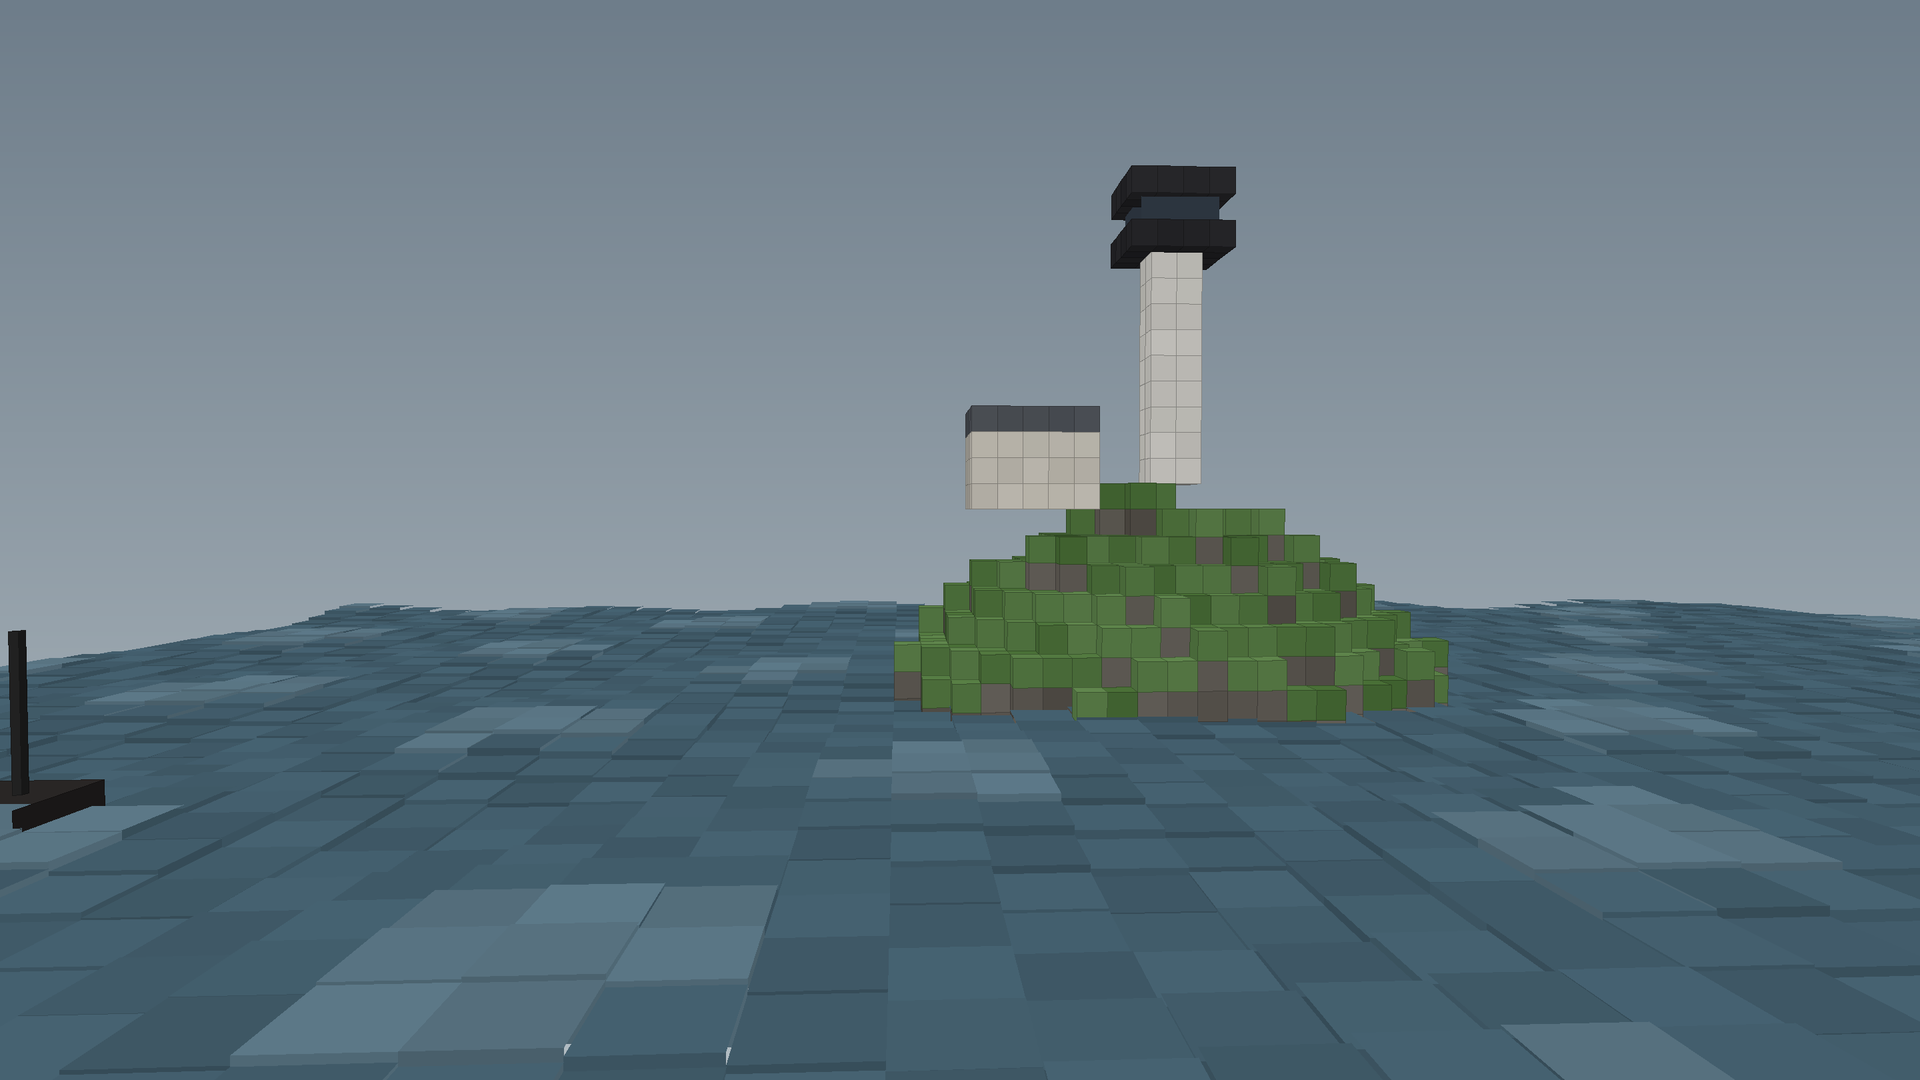
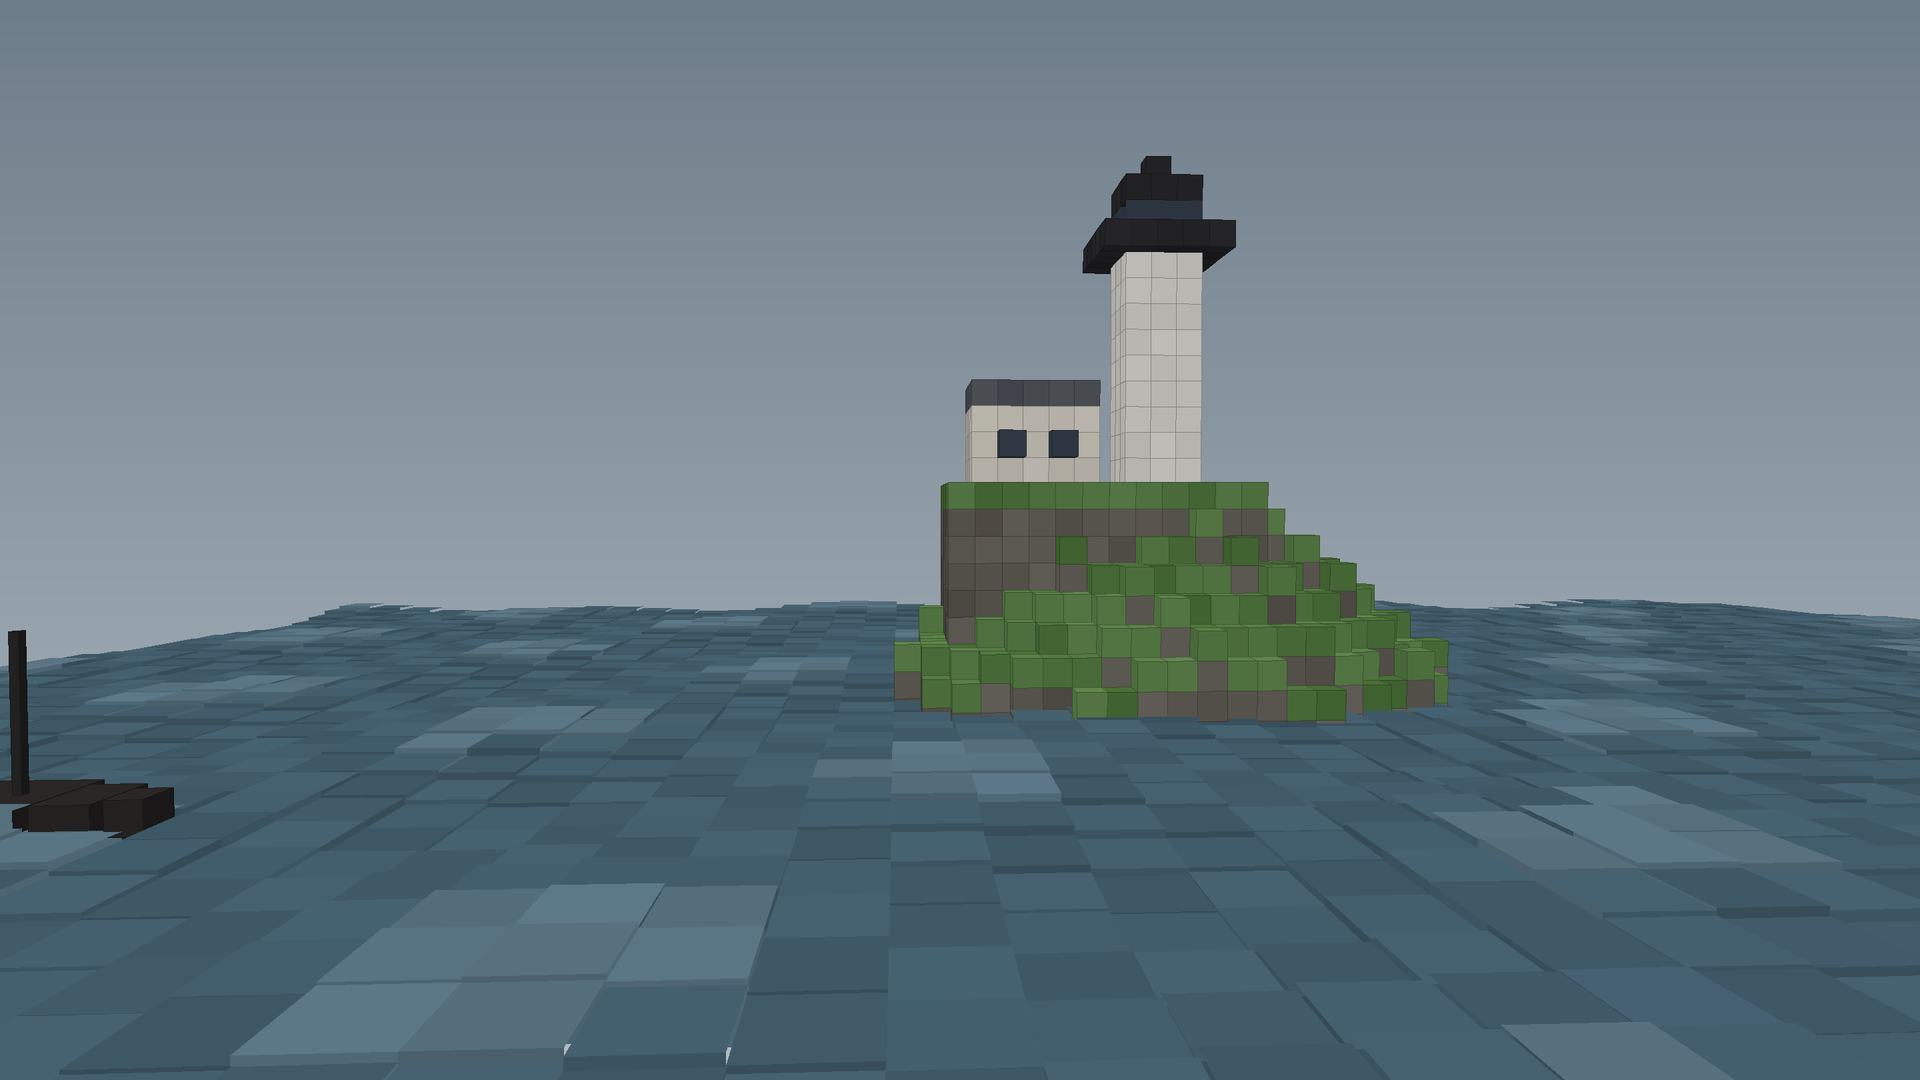
입체 블록 장면 검수·수정: 섬 꼭대기 평평(건물 붙음)·등대 3×3·배 뱃머리·조명탄 높이, 계단 언덕·가는 난간, 외투 모양, 하람 모자 밖 머리·귀 덮개, 두캣 옆 수염, 국자·빵 소품, 빈 침대 / CLAUDE.md 확대 검수 규칙
Claude-Session: https://claude.ai/code/session_01HCMiusSqCGhLJD35gTQhF1

Changed region(s): [[0.4688, 0.1833, 0.6875, 0.5806], [0.0312, 0.7028, 0.0938, 0.7944], [0.5938, 0.1222, 0.6562, 0.2139]]

diff --git a/블록장면3D.py b/블록장면3D.py
@@ -59,22 +59,29 @@ def island_vox(present=False):
             if d > 1.05:
                 continue
             h = int(1 + 7 * max(0.0, 1 - d) ** 0.6 + (1 if (x * 7 + z * 3) % 5 == 0 else 0))
+            if cx - 8 <= x <= cx + 3 and cz - 4 <= z <= cz + 2:   # 건물이 서는 꼭대기는 평평하게 (떠 보이지 않게)
+                h = 8
             for y in range(-1, h):
                 vx.put(x, y, z, "#6f6a62" if y < h - 1 else "#5f8a4a", j=14)
     top = 8
-    for y in range(top, top + 9):                                 # 등대 탑 (흰 블록 2×2)
-        for x in (cx, cx + 1):
-            for z in (cz - 1, cz):
+    for y in range(top, top + 9):                                 # 등대 탑 (흰 블록 3×3)
+        for x in (cx - 1, cx, cx + 1):
+            for z in (cz - 2, cz - 1, cz):
                 vx.put(x, y, z, "#f1efe8", j=6)
-    for x in range(cx - 1, cx + 3):
-        for z in range(cz - 2, cz + 2):
-            vx.put(x, top + 9, z, "#2f2f33", j=4)                 # 꼭대기 받침
+    for x in range(cx - 2, cx + 3):
+        for z in range(cz - 3, cz + 2):
+            vx.put(x, top + 9, z, "#2f2f33", j=4)                 # 꼭대기 받침(난간)
+    for x in range(cx - 1, cx + 2):
+        for z in range(cz - 2, cz + 1):
             vx.put(x, top + 11, z, "#2f2f33", j=4)                # 지붕
-    for x in range(cx - 7, cx - 2):                               # 숙소
+    vx.put(cx, top + 12, cz - 1, "#2f2f33", j=4)
+    for x in range(cx - 7, cx - 2):                               # 숙소 (땅에 붙음)
         for z in range(cz - 3, cz + 1):
-            for y in range(top - 1, top + 2):
+            for y in range(top, top + 3):
                 vx.put(x, y, z, "#e9e4d8", j=8)
-            vx.put(x, top + 2, z, "#5a5f66", j=6)
+            vx.put(x, top + 3, z, "#5a5f66", j=6)
+    for x in (cx - 6, cx - 4):                                    # 숙소 창문
+        vx.put(x, top + 1, cz + 1, "#3a4552", j=4)
     return vx.boxes()
 
 
@@ -84,7 +91,7 @@ def set_island(t, p, o):
     cx, cz, top = 8, -14, 8
     lamp = o.get("lamp", "on")
     on = lamp != "off"
-    b.append(Box((cx - 0.5, top + 10, cz - 1.5), (3, 1, 3), "#fff1a8" if on else "#3a4552", emit=on, edge=False))
+    b.append(Box((cx - 1, top + 10, cz - 2), (3, 1, 3), "#fff1a8" if on else "#3a4552", emit=on, edge=False))   # 등불 방 유리
     if lamp == "beam" or (on and mood in ("night", "dusk", "storm")):
         a = t * 40
         piv = np.array([cx + 1, top + 10.5, cz])
@@ -95,36 +102,54 @@ def set_island(t, p, o):
         q = 0.5 - 0.5 * math.cos(math.pi * q)
         sx = s0 + (s1 - s0) * q
         bob = 0.15 * math.sin(t * 1.6)
-        b += [Box((sx, -0.6 + bob, 4), (7, 1.4, 2.6), "#2e2b2a"), Box((sx + 1.5, 0.8 + bob, 4.4), (3.5, 1.4, 1.8), "#d9d2c3"),
+        b += [Box((sx, -0.6 + bob, 4), (7, 1.4, 2.6), "#2e2b2a"), Box((sx + 7, -0.3 + bob, 4.4), (1.2, 1.1, 1.8), "#2e2b2a"), Box((sx + 8.2, 0.0 + bob, 4.8), (0.8, 0.8, 1.0), "#2e2b2a"),
+              Box((sx + 1.5, 0.8 + bob, 4.4), (3.5, 1.4, 1.8), "#d9d2c3"), Box((sx + 2.0, 1.5 + bob, 6.21), (2.5, 0.4, 0.02), "#3a4552", edge=False),
               Box((sx + 2.6, 2.2 + bob, 4.9), (0.9, 2.2, 0.9), "#a83232"), Box((sx + 6, 0.8 + bob, 5.1), (0.2, 3.5, 0.2), "#2b2b2b")]
         if o.get("flare") and p > 0.55:
             ph = min(1.0, (p - 0.55) / 0.35)
-            fy = 1 + 16 * math.sin(ph * math.pi / 2)
+            fy = 1 + 11 * math.sin(ph * math.pi / 2)
             for k in range(6):   # 연기 꼬리
                 b.append(Box((sx + 3 + ph * 2 - k * 0.08, fy - k * 1.2 * ph, 5.0), (0.25, 0.25, 0.25), (255, 200, 170), emit=True, edge=False))
             b.append(Box((sx + 2.6 + ph * 2, fy, 4.8), (0.9 + ph, 0.9 + ph, 0.9 + ph), (255, 90, 60), emit=True, edge=False))
     return b, mood
 
 
+def stair_h(x):
+    """돌계단 언덕 높이: 2칸마다 한 계단씩 (x 1 → 1층, x 22 → 11층)"""
+    return max(1, min(12, 1 + (x - 1) // 2)) if x >= 1 else 0   # 23 이후는 꼭대기 평지
+
+
 def set_stairs(t, p, o):
     mood = o.get("mood", "grey")
     def build():
         vx = Voxels()
-        for x in range(-6, 30):
-            for z in range(-12, 4):
-                h = int(max(0, (x + 4) * 0.45))
-                for y in range(-1, min(h, 12)):
-                    vx.put(x, y, z, "#6f6a62" if y < h - 1 else "#5f8a4a", j=12)
-        for k in range(10):   # 돌계단 (왼쪽 아래 → 오른쪽 위)
-            for z in (1, 2):
-                vx.put(20 - k * 2, 9 - k + 0, z, "#9a9c9e", j=8)
-                vx.put(19 - k * 2, 9 - k + 0, z, "#9a9c9e", j=8)
+        for x in range(-6, 44):
+            for z in range(-16, 4):
+                h = stair_h(x)
+                path = 0 <= z <= 2 and 1 <= x <= 22
+                for y in range(-1, h):
+                    top_ = y == h - 1
+                    vx.put(x, y, z, ("#a3a5a7" if path else "#5f8a4a") if top_ else ("#8e9092" if path else "#6f6a62"), j=10)
+        for y in range(stair_h(24), stair_h(24) + 7):   # 언덕 위 등대
+            for x in (24, 25):
+                for z in (-3, -2):
+                    vx.put(x, y, z, "#f1efe8", j=6)
+        for x in (23, 24, 25, 26):
+            for z in (-4, -3, -2, -1):
+                vx.put(x, stair_h(24) + 7, z, "#2f2f33", j=4)
         return vx.boxes()
-    return sea_tiles(t, mood, -40, 10, -10, 40) + _static("stairs", build), mood
+    posts = []
+    for x in range(2, 23, 3):   # 돌길 옆 가는 쇠 난간 (기둥 + 가로대)
+        posts.append(Box((x + 0.4, stair_h(x), 3.1), (0.15, 1.3, 0.15), "#3b3b3b", edge=False))
+        posts.append(Box((x + 0.4, stair_h(x) + 1.15, 3.1), (3.36, 0.1, 0.1), "#3b3b3b", [(np.array([x + 0.4, stair_h(x) + 1.2, 3.15]), "z", 26.5)], edge=False))
+    return sea_tiles(t, mood, -40, 10, -10, 40) + _static("stairs", build) + posts, mood
 
 
 def set_kitchen(t, p, o):
     b = E.kitchen(t if not o.get("stopped") else 0.0)
+    if o.get("bed"):    # 빈 침대 (오른쪽 벽 앞)
+        b += [Box((6.2, 0, 0.6), (3.0, 1.0, 4.6), "#7a5232"), Box((6.3, 1.0, 0.7), (2.8, 0.4, 4.4), "#e9e1cf"),
+              Box((6.5, 1.4, 0.8), (2.4, 0.3, 1.0), "#f4f1ea"), Box((6.1, 0, 0.3), (3.2, 2.4, 0.3), "#6b4a30")]
     if o.get("cold"):   # 꺼진 난로: 불꽃·김을 뺌 (emit 상자 중 주황·흰 것)
         b = [x for x in b if not (x.emit and (x.col[0] > 200 and x.col[2] < 120 or x.col.min() > 230))]
     if o.get("stopped"):
@@ -145,8 +170,15 @@ def set_hook(t, p, o):
     if o.get("coat", True):
         sway = 3 * math.sin(t * 1.3)
         piv = np.array([5.95, 6.6, 0.4])
-        b += [Box((4.7, 1.6, 0.3), (2.5, 5.0, 0.7), "#2e3b4f", [(piv, "z", sway)]), Box((5.3, 5.6, 0.95), (1.3, 1.0, 0.1), "#26303f", [(piv, "z", sway)]),
-              Box((4.4, 3.8, 0.35), (0.5, 2.8, 0.6), "#26303f", [(piv, "z", sway)]), Box((7.0, 3.8, 0.35), (0.5, 2.8, 0.6), "#26303f", [(piv, "z", sway)])]
+        R_ = [(piv, "z", sway)]
+        b += [Box((4.75, 1.4, 0.3), (2.4, 4.6, 0.6), "#2e3b4f", R_),                       # 몸판
+              Box((4.4, 5.3, 0.3), (3.1, 0.8, 0.6), "#2e3b4f", R_),                         # 어깨
+              Box((4.1, 2.6, 0.32), (0.55, 3.2, 0.55), "#283447", R_), Box((7.35, 2.6, 0.32), (0.55, 3.2, 0.55), "#283447", R_),   # 늘어진 소매
+              Box((5.35, 5.5, 0.92), (0.6, 0.7, 0.06), "#1e2836", R_), Box((6.05, 5.5, 0.92), (0.6, 0.7, 0.06), "#1e2836", R_),   # 깃
+              Box((5.93, 1.5, 0.91), (0.06, 4.0, 0.03), "#1a2230", R_, edge=False)]                                           # 여밈선
+        for k in range(4):
+            b.append(Box((6.15, 4.6 - k * 0.9, 0.92), (0.16, 0.16, 0.05), "#c9b25a", R_, edge=False))                          # 단추
+        b.append(Box((5.85, 6.0, 0.4), (0.3, 0.5, 0.3), "#2e3b4f", R_))                                                        # 걸이 고리
     return b, "indoor"
 
 
@@ -194,8 +226,8 @@ def pose3d(acts, t, seed):
         p["talk"] = 0.8 + 0.2 * abs(math.sin(t * 6))
         p["arm"] = 60 + 20 * math.sin(t * 5)
         p["arm2"] = 60 + 20 * math.sin(t * 5 + 1)
-    if "stir" in acts:
-        p["arm"] = 70 + 12 * math.sin(t * 2 * math.pi / 1.4)
+    if "stir" in acts:   # 팔을 냄비 높이로 들고 국자를 휘휘
+        p["arm"] = 108 + 8 * math.sin(t * 2 * math.pi / 1.4)
     if "wave" in acts:
         p["arm_r"] = 150 + 18 * math.sin(t * 2 * math.pi / 0.6)
     if "point" in acts or "reach" in acts:
@@ -235,11 +267,17 @@ def frame(scene, cast, t, dur=None):
             if q >= 1.0:
                 acts = [a for a in acts if a not in ("walk", "run")]
         y = ch.get("y")
-        if y is None:
-            y = rock_height(int(ax), int(az)) if scene.get("set") == "rocks" else 0
+        if y is None or (scene.get("set") == "stairs" and "y_to" in ch):
+            y = rock_height(int(ax), int(az)) if scene.get("set") == "rocks" else (stair_h(int(round(ax))) if scene.get("set") == "stairs" else 0)
+            ch = {k_: v_ for k_, v_ in ch.items() if k_ != "y_to"}
         if ch.get("y_to") is not None:
             y = y + (ch["y_to"] - y) * min(1.0, pr * ch.get("speed", 1.0))
-        boxes += person(c, (ax, y, az), face=face, pose=pose3d(acts, t, i * 1.7 + 0.3), scale=ch.get("scale", 1.0))
+        ps = pose3d(acts, t, i * 1.7 + 0.3)
+        if "stir" in acts:
+            ps["ladle"] = True
+        if ch.get("hold"):
+            ps["hold"] = ch["hold"]
+        boxes += person(c, (ax, y, az), face=face, pose=ps, scale=ch.get("scale", 1.0))
     fx = scene.get("fx", [])
     if "rain" in fx:
         cp = scene["cam"]["pos"]

diff --git a/블록3D.py b/블록3D.py
@@ -222,6 +222,12 @@ def person(c, pos, face=0.0, pose=None, scale=1.0):
         r = [(piv, "x", -(fwd) - swing * sg), (piv, "z", side * sg)]
         B((ax, sy - alen, -aw / 2), (aw, alen, aw), c["top"], r)
         B((ax + 0.01, sy - alen - aw * 0.9, -aw / 2 + 0.01), (aw - 0.02, aw * 0.9, aw - 0.02), c["skin"], r)
+        if sg > 0 and pose.get("ladle"):   # 국자: 손에서 아래로 긴 자루 + 끝의 오목한 머리
+            hp = np.array([x0 + ax + aw / 2, y0 + bob + sy - alen - aw * 0.5, z0])   # 손 자리: 국자를 팔과 직각으로 꺾어 냄비 안으로
+            lr = [(hp, "x", pose.get("ladle_deg", 95))] + r
+            B((ax + aw * 0.35, sy - alen - aw * 0.9 - 0.45, -0.04), (0.08, 0.55, 0.08), "#8a8f96", lr)   # 짧은 자루 (끝은 수프 속)
+        if sg > 0 and pose.get("hold"):    # 손에 든 물건 (빵 반쪽 등)
+            B((ax - 0.05, sy - alen - aw * 1.3, -aw * 0.9), (aw + 0.1, aw * 0.7, aw * 1.4), pose["hold"], r)
     # 목·머리
     hy = sy + 0.05
     B((-hwid * 0.2, sy - 0.05, -0.12), (hwid * 0.4, 0.12, 0.24), c["skin"])
@@ -244,8 +250,8 @@ def person(c, pos, face=0.0, pose=None, scale=1.0):
     if c["beard"]:
         bc = c["beard"] if isinstance(c["beard"], str) else c["hair"]
         B((-hwid / 2 - 0.02, hy - 0.04, fz - 0.06), (hwid + 0.04, hs * 0.36, 0.1), bc)
-        B((-hwid / 2 - 0.02, hy - 0.04, -hs / 2 - 0.02), (0.08, hs * 0.5, hs + 0.04), bc)
-        B((hwid / 2 - 0.06, hy - 0.04, -hs / 2 - 0.02), (0.08, hs * 0.5, hs + 0.04), bc)
+        B((-hwid / 2 - 0.02, hy - 0.04, -hs * 0.05), (0.08, hs * 0.42, hs * 0.57), bc)   # 옆 수염은 턱 앞쪽만
+        B((hwid / 2 - 0.06, hy - 0.04, -hs * 0.05), (0.08, hs * 0.42, hs * 0.57), bc)
     if c["mustache"]:
         B((-hs * 0.2, my + hs * 0.06, fz + 0.02), (hs * 0.4, hs * 0.07, 0.03), c["hair"] if c["hair_style"] != "bald" else "#9a9a9a", edge=False)
     talk = pose.get("talk", 0)
@@ -268,7 +274,7 @@ def person(c, pos, face=0.0, pose=None, scale=1.0):
             B((sg * hwid / 2 - (0.06 if sg < 0 else -0.02) - (0 if sg < 0 else 0.04), t - sl, -hs / 2 - 0.04), (0.08, sl, hs * (0.75 if st not in ("bob", "long") else 0.95)), hc)
         if st == "long":
             B((-hwid / 2 - 0.04, t - hs * 1.6, -hs / 2 - 0.06), (hwid + 0.08, hs * 0.8, 0.14), hc)
-        if st == "spiky":
+        if st == "spiky" and not c["aviator"]:
             for i in range(5):
                 for j in range(3):
                     px = -hwid / 2 + hwid * (i + 0.5) / 5 - 0.07
@@ -291,7 +297,7 @@ def person(c, pos, face=0.0, pose=None, scale=1.0):
         ac = c["aviator"] if isinstance(c["aviator"], str) else "#8a5a32"
         B((-hwid / 2 - 0.06, t - hs * 0.22, -hs / 2 - 0.06), (hwid + 0.12, hs * 0.34, hs + 0.12), ac)
         for sg in (-1, 1):
-            B((sg * hwid / 2 - (0.1 if sg < 0 else -0.02) - (0 if sg < 0 else 0.04), hy + hs * 0.15, -hs * 0.15), (0.1, hs * 0.45, hs * 0.35), ac)
+            B((sg * hwid / 2 - (0.08 if sg < 0 else 0) , hy + hs * 0.22, -hs * 0.24), (0.08, hs * 0.34, hs * 0.24), shade_hex(ac, 0.85))   # 귀 덮개 (귀 자리에 작게)
         B((-hwid / 2 - 0.08, t - hs * 0.08, -hs / 2 - 0.08), (hwid + 0.16, 0.07, hs + 0.16), "#3b3b3b")
         for sg in (-1, 1):
             B((sg * ex - hs * 0.13, t - hs * 0.12, hs / 2 + 0.06), (hs * 0.26, hs * 0.2, 0.06), "#c9a227")
@@ -359,11 +365,12 @@ def kitchen(t):
     bx.append(Box((2.1, 0.1, 3.0), (1.8, 0.5 + 0.9 * fl, 0.3), "#f39c32", emit=True, edge=False))
     bx.append(Box((2.5, 0.1, 3.1), (1.0, 0.3 + 0.5 * fl, 0.3), "#ffd76a", emit=True, edge=False))
     # 냄비 + 김
-    bx.append(Box((1.6, 3, 1.4), (1.6, 0.9, 1.4), "#5a5f66"))
+    bx.append(Box((3.2, 3, 2.2), (1.7, 0.9, 1.6), "#5a5f66"))   # 냄비: 난로 위 앞쪽 (마셜 손이 닿는 곳)
+    bx.append(Box((3.35, 3.85, 2.35), (1.4, 0.06, 1.3), "#c9b48a", emit=True, edge=False))   # 수프
     for i in range(3):
         ph = (t * 0.6 + i / 3) % 1
         sz = 0.25 + 0.3 * ph
-        bx.append(Box((2.2 + 0.2 * math.sin(t * 3 + i), 4.1 + ph * 2.2, 2.0), (sz, sz, sz), "#f4f6f8", emit=True, edge=False))
+        bx.append(Box((3.8 + 0.2 * math.sin(t * 3 + i), 4.1 + ph * 2.2, 2.8), (sz, sz, sz), "#f4f6f8", emit=True, edge=False))
     # 시계: 문자판 + 추
     bx.append(Box((20.15, 6.4, 1.0), (1.7, 1.4, 0.06), "#f6efdc"))
     pa = 25 * math.sin(t * math.pi * 2 / 1.6)

diff --git a/연재/플래넌등대/장면3D_설정.py b/연재/플래넌등대/장면3D_설정.py
@@ -21,9 +21,9 @@ S = {
  # ── 1구간 (0~2분) ──
  "c01": {"set": "island", "opt": {"mood": "storm", "lamp": "off"}, "cam": {"pos": [8, 10, 34], "look": [8, 7, -14], "fov": 44, "move": [-3, -1, -6]}, "fx": ["fade_in"]},
  "c02": {"set": "island", "opt": {"mood": "grey", "lamp": "off", "ship": [-34, -6], "flare": True}, "cam": {"pos": [-2, 7, 30], "look": [0, 6, -6], "fov": 52, "move": [2, 0, -2]}},
- "c04": {"set": "stairs", "opt": {"mood": "grey"}, "cam": {"pos": [4, 8, 22], "look": [8, 5, 0], "fov": 46, "move": [7, 3, 0]},
-         "chars": [ch(J, [2.5, 1.5], 90, ["run", "blink"], y=1, to=[17.5, 1.5], y_to=8.5, speed=1.1)]},
- "c05": {"set": "kitchen", "opt": {"cold": True, "stopped": True}, "cam": KCAM, "chars": [ch(J, [12, 7], 0, ["blink", "shiver"])]},
+ "c04": {"set": "stairs", "opt": {"mood": "grey"}, "cam": {"pos": [6, 9, 24], "look": [10, 6, 0], "fov": 48, "move": [10, 4, 0]},
+         "chars": [ch(J, [2.5, 1.5], 90, ["run", "blink"], to=[20.5, 1.5], y_to=0, speed=1.1)]},
+ "c05": {"set": "kitchen", "opt": {"cold": True, "stopped": True, "bed": True}, "cam": KCAM, "chars": [ch(J, [12, 7], 0, ["blink", "shiver"])]},
  "c06": {"set": "hook", "cam": {"pos": [6, 4.5, 11], "look": [6, 4.2, 0], "fov": 42, "move": [0, 0, -2]}},
  "c07": {"set": "island", "opt": {"mood": "fog", "lamp": "off"}, "cam": {"pos": [8, 9, 48], "look": [8, 8, -14], "fov": 40, "move": [0, 0, -4]}, "fx": ["dark"]},
  "c08": {"set": "rocks", "opt": {"mood": "day"}, "cam": {"pos": [5, 6, 19], "look": [5, 4, 4], "fov": 44, "move": [0, -0.5, -2]}, "chars": [ch(H, [5, 6], 0, ["blink", "breath", "talk"])]},
@@ -31,8 +31,8 @@ S = {
  "c11": {"set": "rocks", "opt": {"mood": "storm"}, "cam": {"pos": [2, 6, 17], "look": [5, 3, 3], "fov": 46, "move": [1, 0, -2]}, "chars": [ch(H, [5, 5], 55, ["blink", "breath", "shiver"])], "fx": ["rain"]},
  "c12": {"set": "rocks", "opt": {"mood": "night"}, "cam": {"pos": [7, 6, 20], "look": [7, 3, 4], "fov": 46},
          "chars": [ch(H, [3, 6], 80), ch(D, [15, 6], -90, ["walk", "blink", "talk"], to=[7, 6])], "fx": ["rain"]},
- "c13": {"set": "kitchen", "cam": KCAM, "chars": [ch(M, [7.4, 2.6], -90, ["blink", "breath", "stir", "talk"]), ch(D, [21.0, 5.6], -15), ch(H, [17.2, 5.4], 10)]},
- "c14": {"set": "kitchen", "cam": KCAM, "chars": [ch(A, [20.0, 5.6], -50, ["blink", "breath", "reach"]), ch(H, [16.6, 5.4], 40)]},
+ "c13": {"set": "kitchen", "cam": KCAM, "chars": [ch(M, [6.1, 2.9], -90, ["blink", "breath", "stir", "talk"]), ch(D, [21.0, 5.6], -15), ch(H, [17.2, 5.4], 10)]},
+ "c14": {"set": "kitchen", "cam": KCAM, "chars": [ch(A, [20.0, 5.6], -50, ["blink", "breath", "reach"], hold="#d8b27a"), ch(H, [16.6, 5.4], 40)]},
 }
 
 if __name__ == "__main__":

diff --git a/CLAUDE.md b/CLAUDE.md
@@ -164,5 +164,7 @@
   단편 그림 주문 요령(2026-10-31 「마지막 정비 명령」에서 배움): 장면마다 **장소를 꼭 적음**(안 적으면 로봇 시트 때문에 공장·연구실 배경이 나옴),
   로봇·괴물처럼 사람이 아닌 인물은 '시트와 같은 모습, 다른 로봇 아님'을 적음, 무리가 나오는 장면이 아니면 'No other people'. 예: `연재/마지막정비명령/마지막정비명령_단편.py` 의 PARK_SET·CROWD
   대본 길이 확인: 대본 3,300자는 나레이션 약 6분 45초 (1분 ≈ 490자) → 10분이면 대본 약 4,900자
-- **미스터리 사건 상상 애니**(사용자 결정 2026-11-05): 실제 미스터리 사건에 상상을 더한 10분 단편, 안내자 소년 하람이 매 편 나옴, 캐릭터는 코드로 그림(`카툰캐릭터.py`, GPU 없이). 첫 편 `연재/플래넌등대/기획.md`
+- **미스터리 사건 상상 애니**(사용자 결정 2026-11-05): 실제 미스터리 사건에 상상을 더한 10분 단편, 안내자 소년 하람이 매 편 나옴. 그림은 **입체 블록 세상**(마인크래프트처럼, 단 블록 무늬·인물은 모두 오리지널 — `블록3D.py` 엔진·`블록장면3D.py` 장면, GPU 없이 2분 구간 약 11분). 첫 편 `연재/플래넌등대/기획.md`
+  · 영상은 **2분 구간씩** 만들고 사용자 확인 뒤 다음 구간 (사용자 결정 2026-11-05)
+  · **장면 확대 검수 필수**(사용자 결정 2026-11-05): 구간을 만들기 전에 장면마다 처음·가운데·끝 3순간을 크게 열고 사물마다 확대 — 떠 있는 건물·사람, 땅에 묻힌 발, 바다 위를 걷는 사람, 얼굴을 가리는 조각(귀 덮개·수염), 모자 밖으로 삐져나온 머리, 소품이 대본대로인지(국자가 냄비 안, 손에 든 빵, 빈 침대), 화면 밖으로 잘리는 것(조명탄), 땅 끝이 보이는지 → 고친 뒤에 영상
 - 에세이·연재(《엄마의 텃밭》, 《두 번째 새벽》 등)는 그 폴더의 `기획.md` 를 따름
